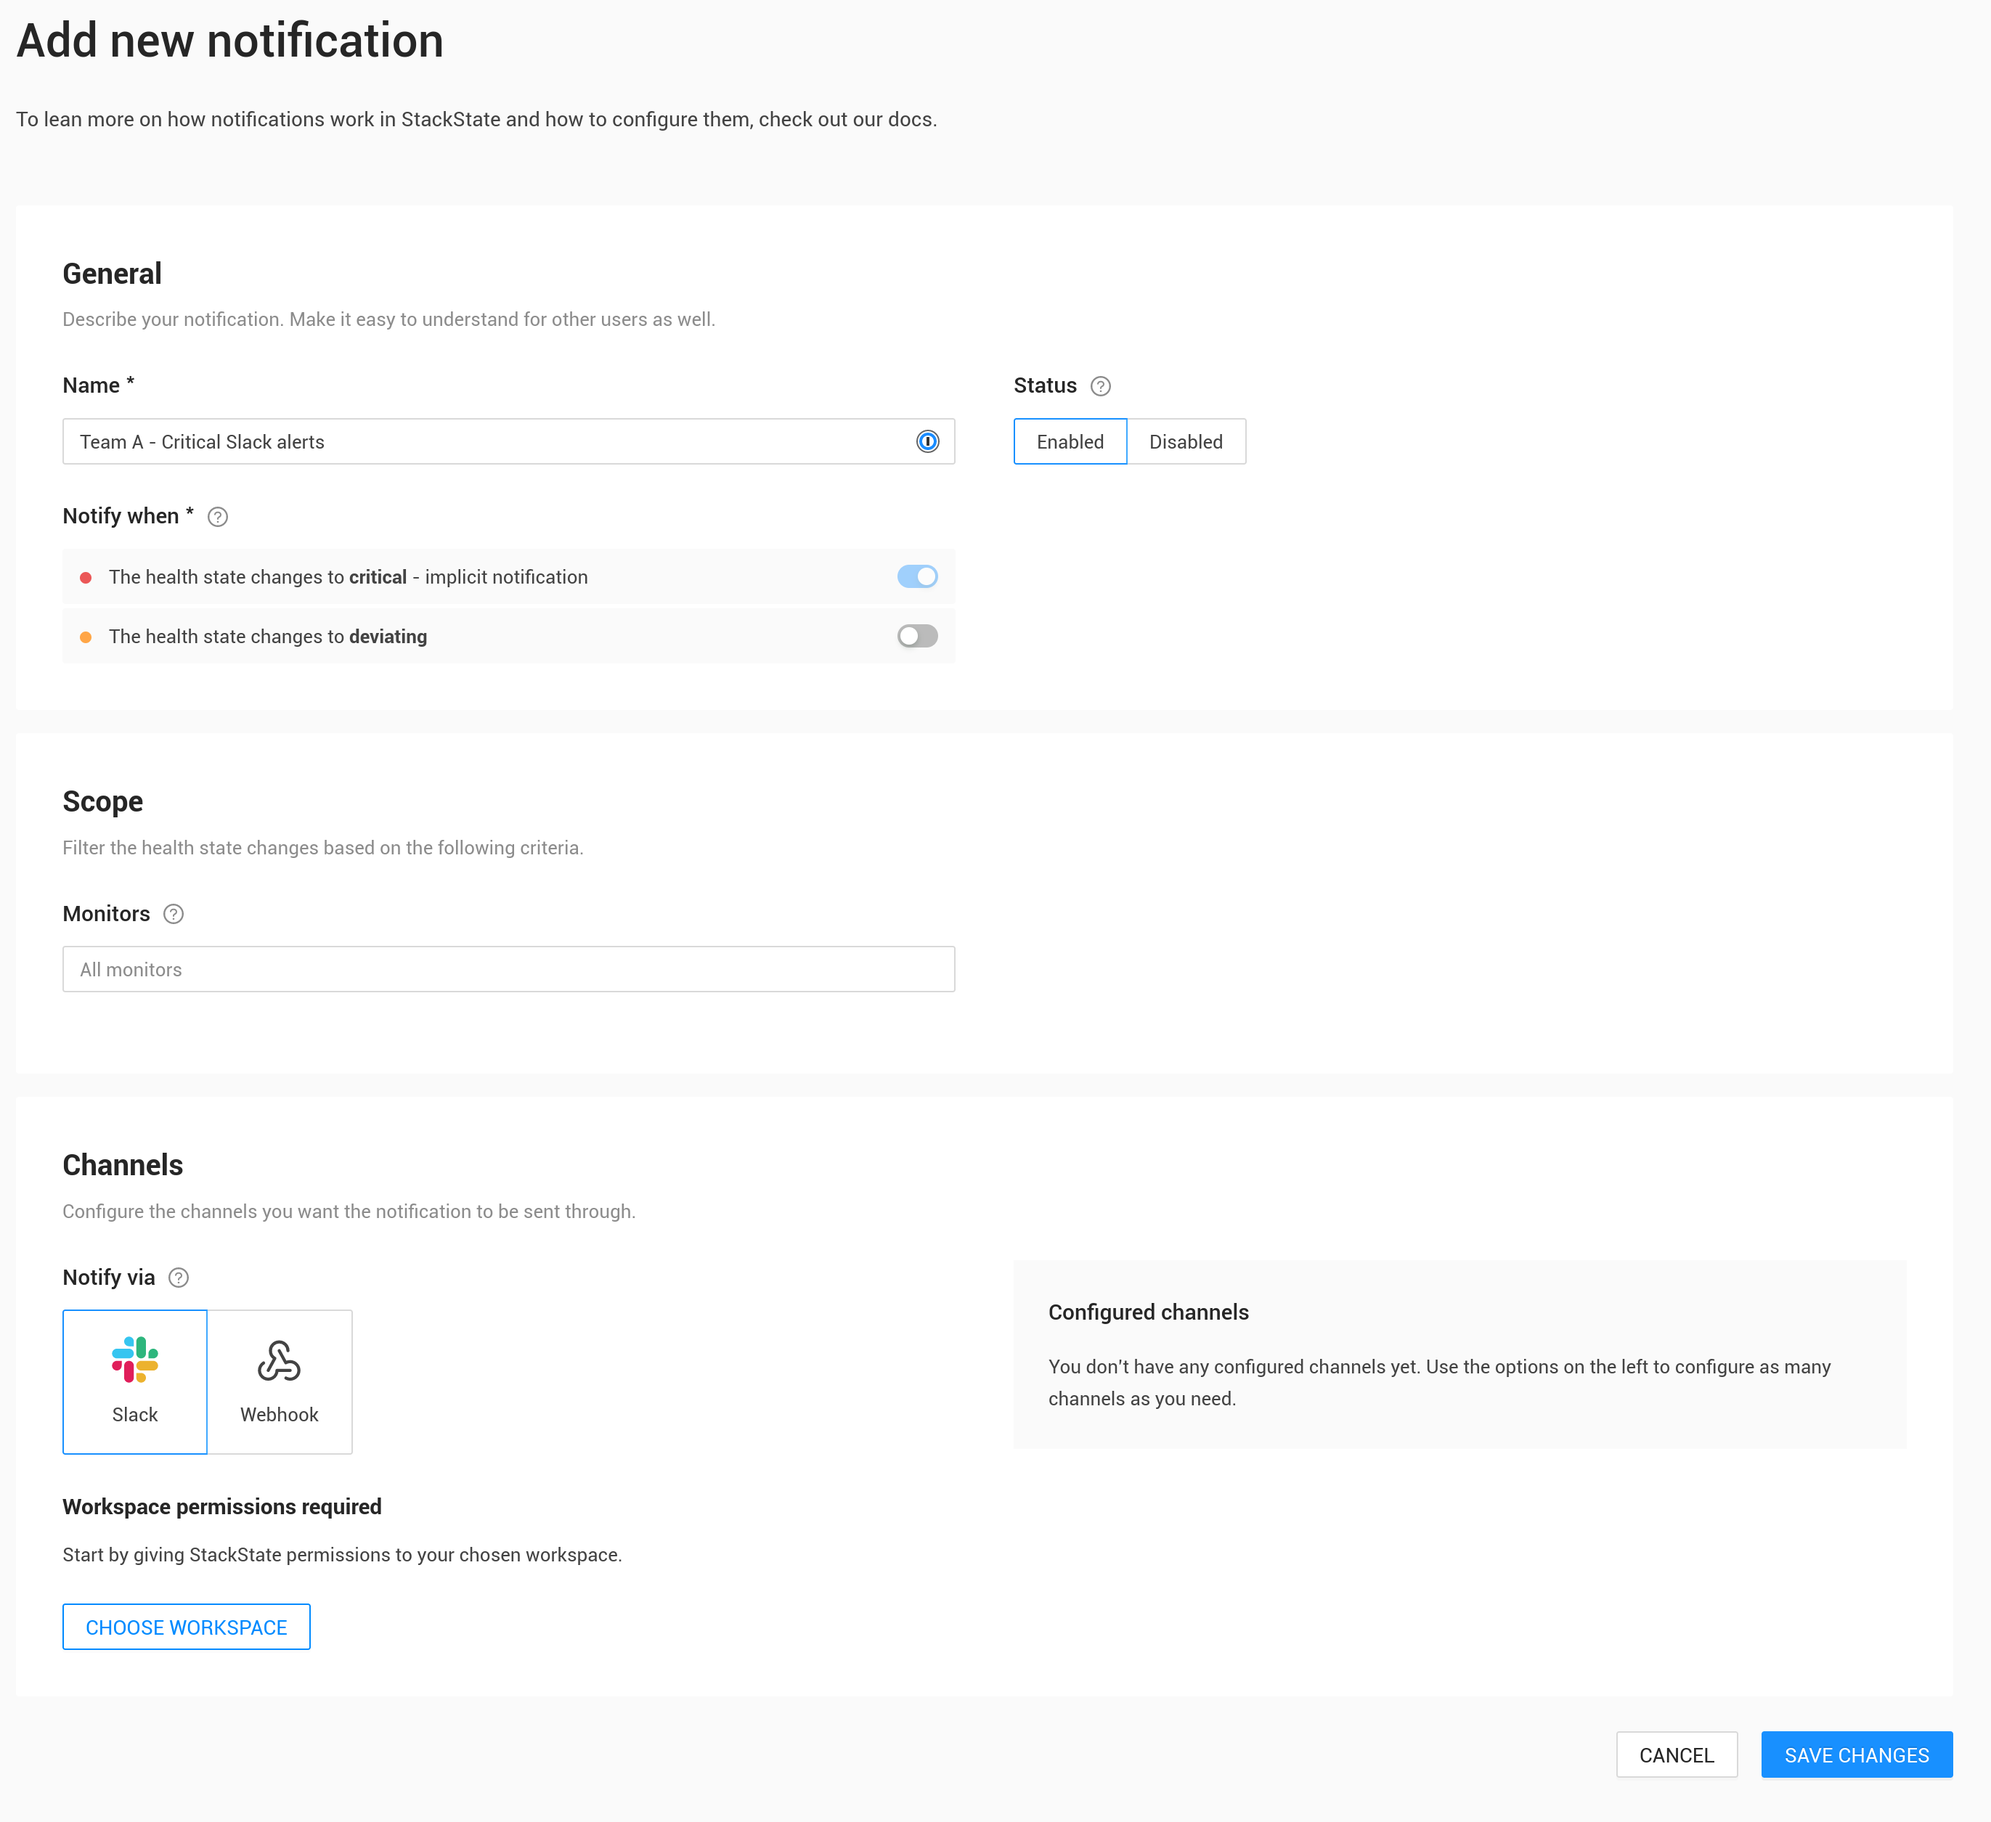
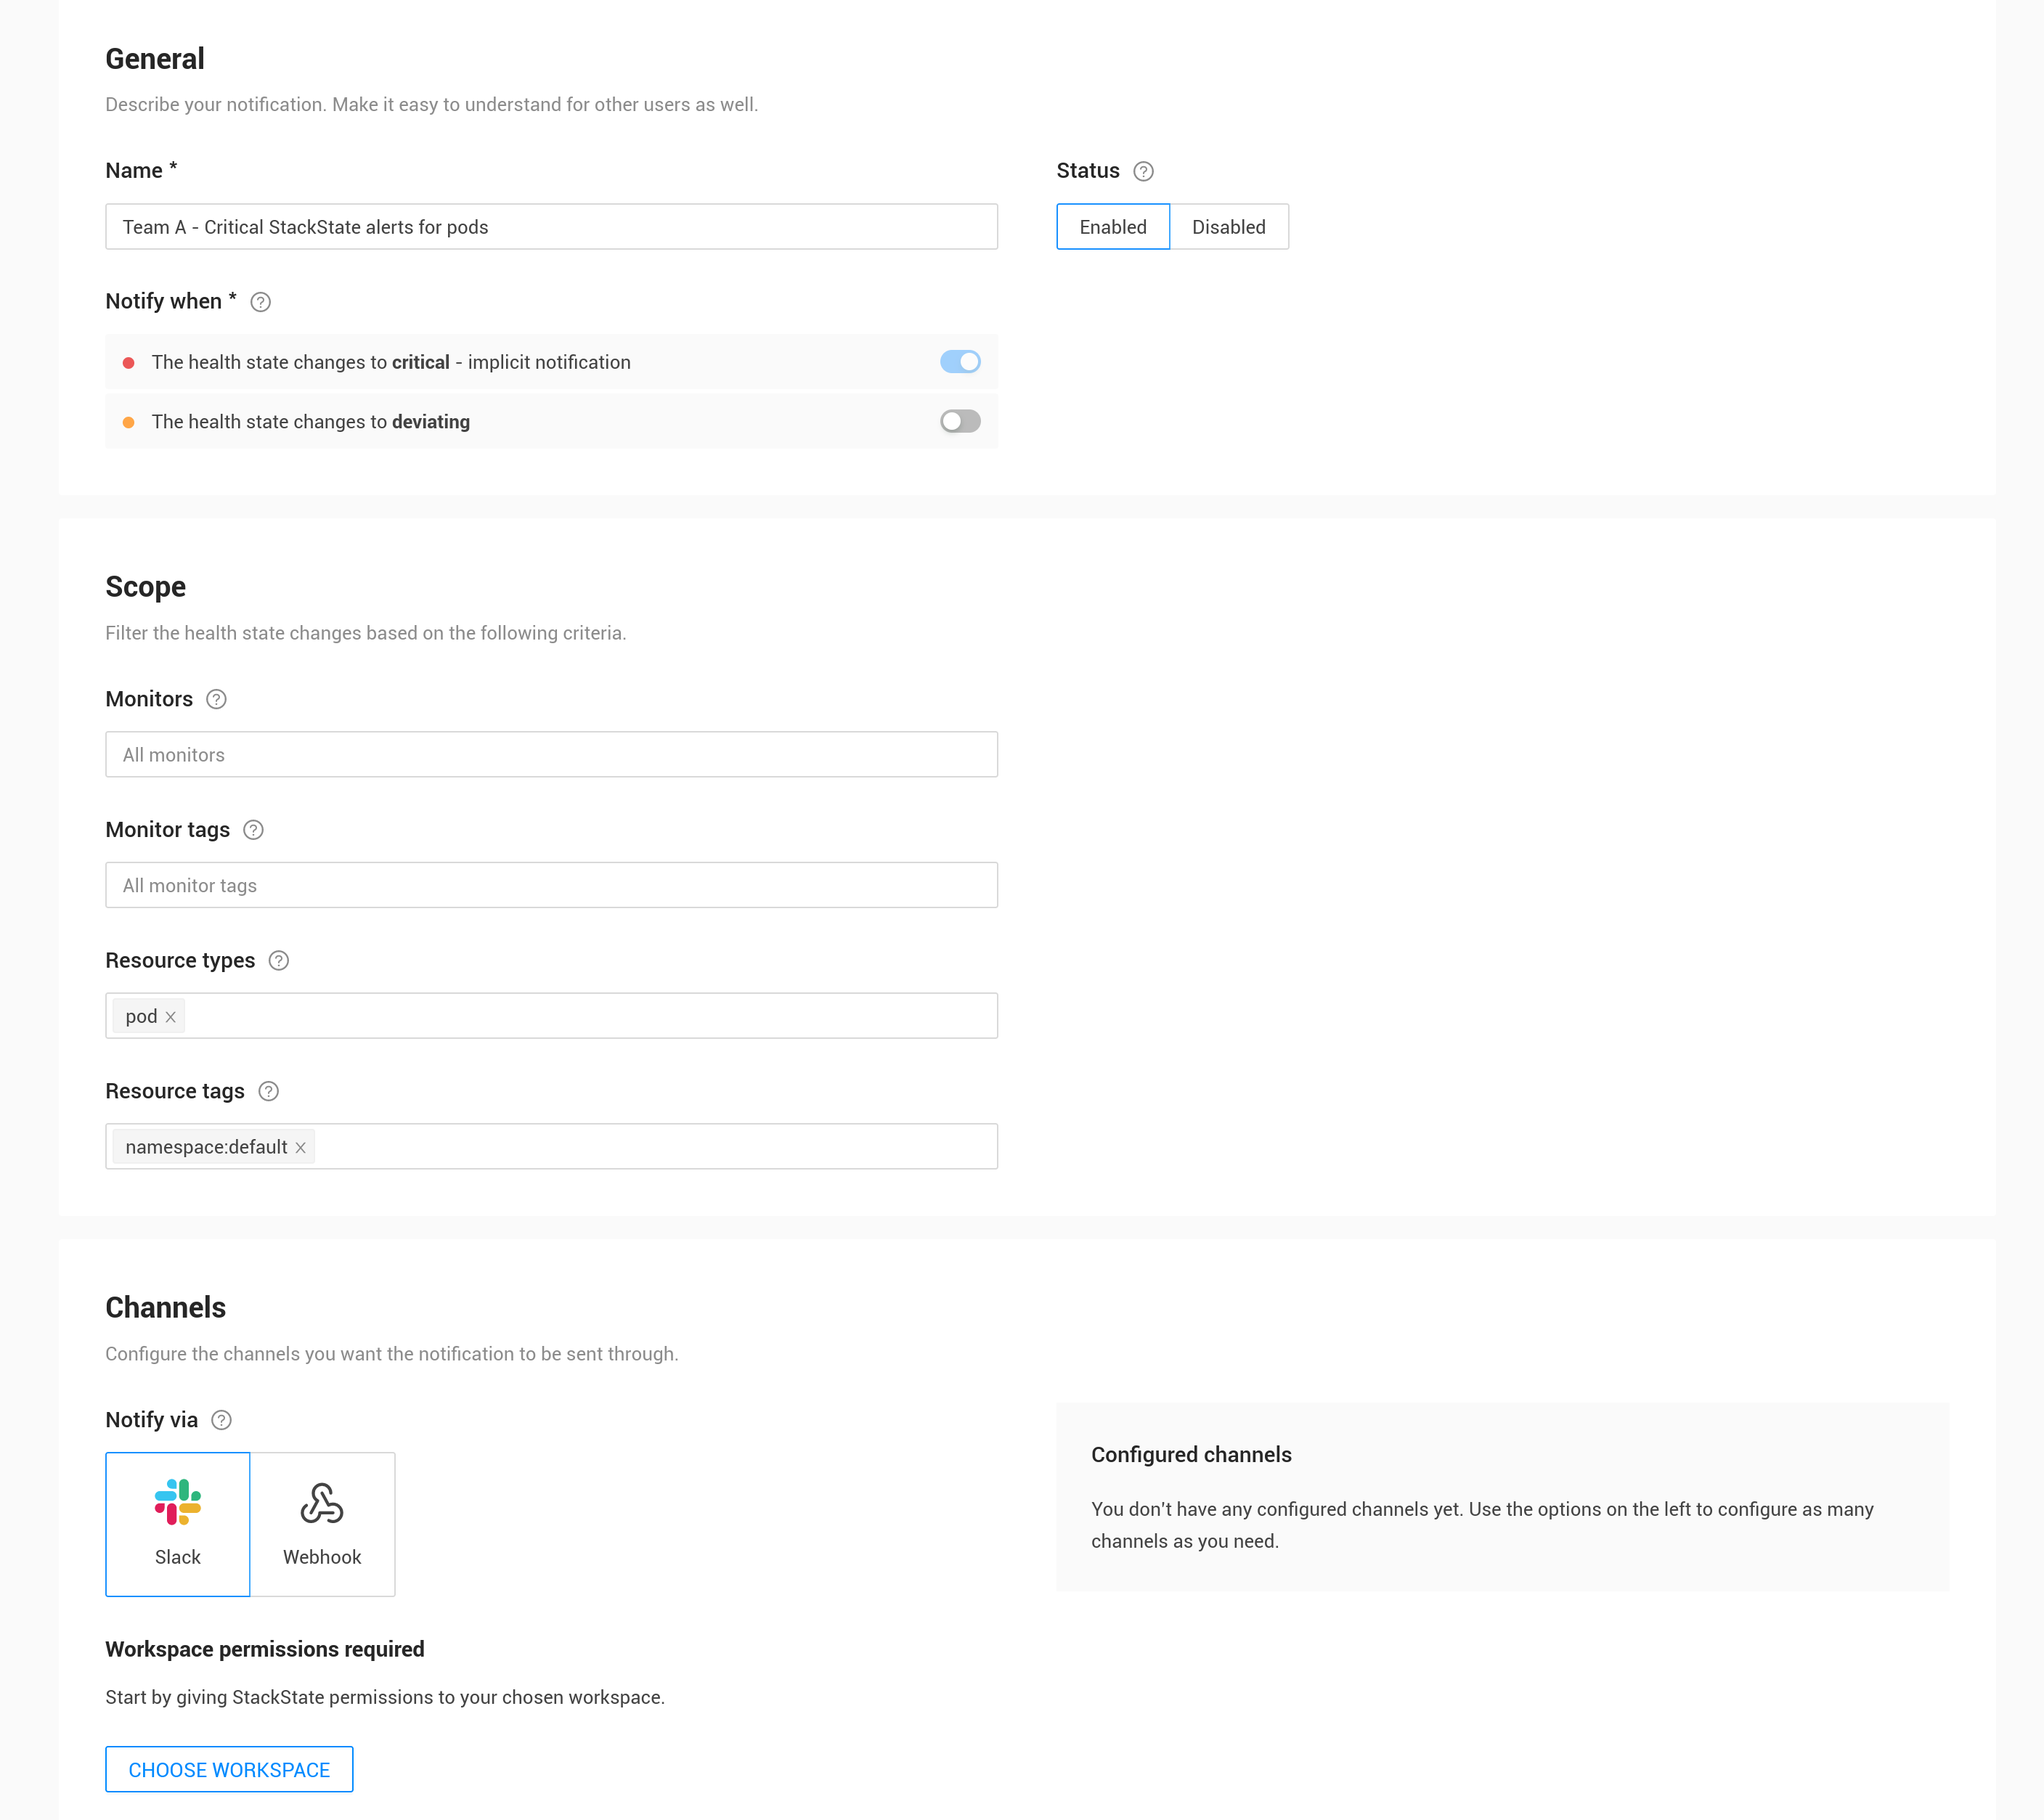
STAC-20535 Update screenshot

diff --git a/use/alerting/notifications/configure.md b/use/alerting/notifications/configure.md
@@ -22,14 +22,14 @@ You can check if the desired notification already exists. If not create a new on
 
 Configure the notification:
 
-1. Name - Choose a name that's short but still describes what the intent is of this notification. It's mostly useful for your own reference in the notifications overview
+1. Name - Choose a name that's short but still describes what the intent is of this notification. It is for your own reference in the notifications overview.
 2. Status - The notification can be disabled temporarily in case it's not yet needed, turns out to be too noisy etc.
-3. Notify when - A critical health state always triggers a notification, but optionally also deviating states can be included
-4. Scope - In the example health states for all monitors and all components will be sent, this can be reduced by selecting 1 or more of the filters in the [scope](#scopes) section.
+3. Notify when - A critical health state always triggers a notification, but optionally also deviating states can be included.
+4. Scope - In the example health states for all monitors on pods in the default Kubernetes namespace will be sent. Use the available  filters in the [scope](#scopes) section to change this selection.
 
 ### Scope
 
-There are 4 possible scope filters. By default a notification will be sent for each critical (and optionally deviating) health state. The filters are used to reduce this. A health state will only result in a notification when it matches all filters.
+There are 4 possible scope filters. By default a notification will be sent for each critical (and optionally deviating) health state. The filters are used to limit this scope. A health state will only result in a notification when it matches all filters.
 
 * Monitors: Select 1 or more specific monitors. Notifications will only be sent for health states of the selected monitors.
 * Monitor tags: Select 1 or more monitor tags. Notifications will only be sent for health states of monitors that have at least one of the selected tags.
